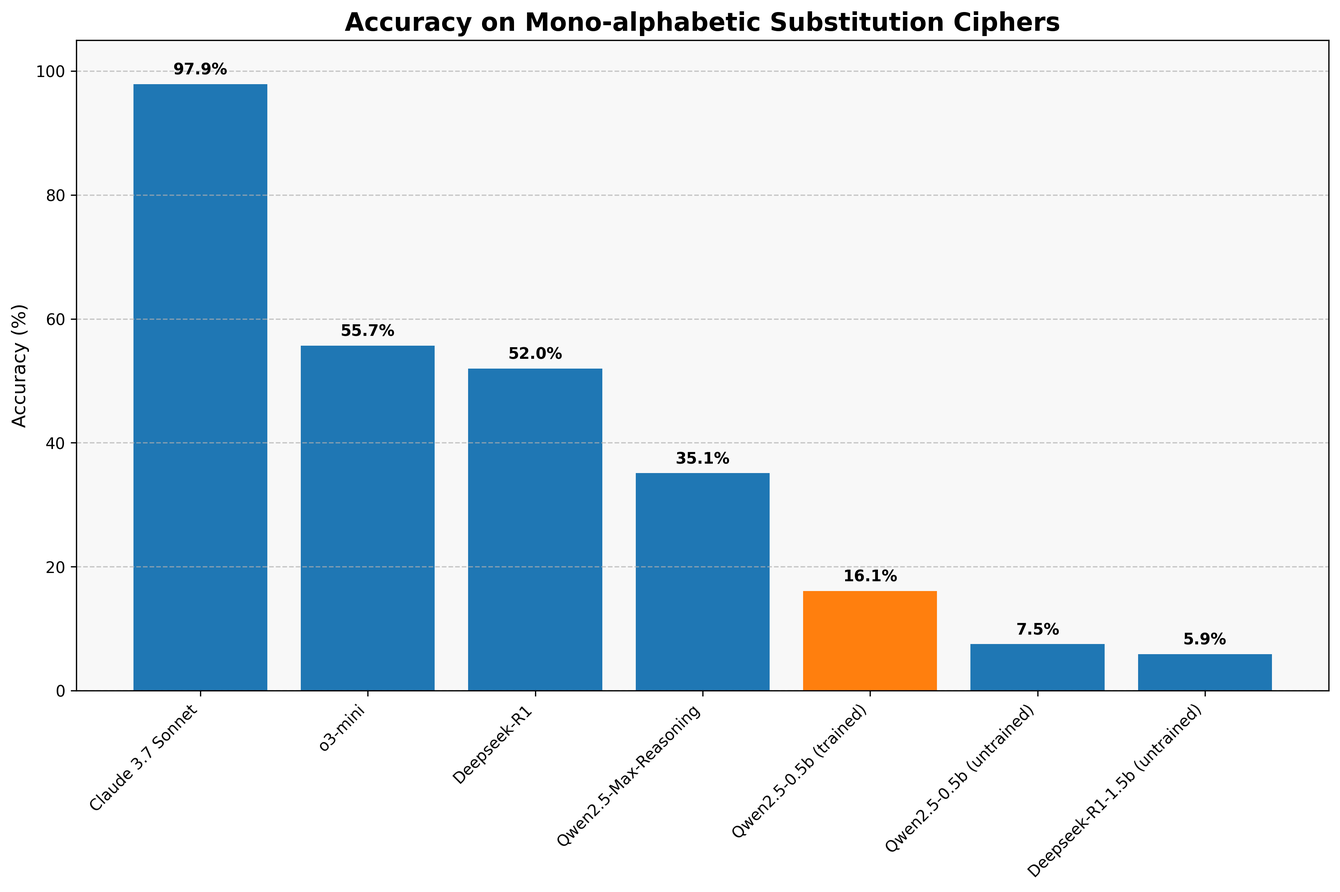
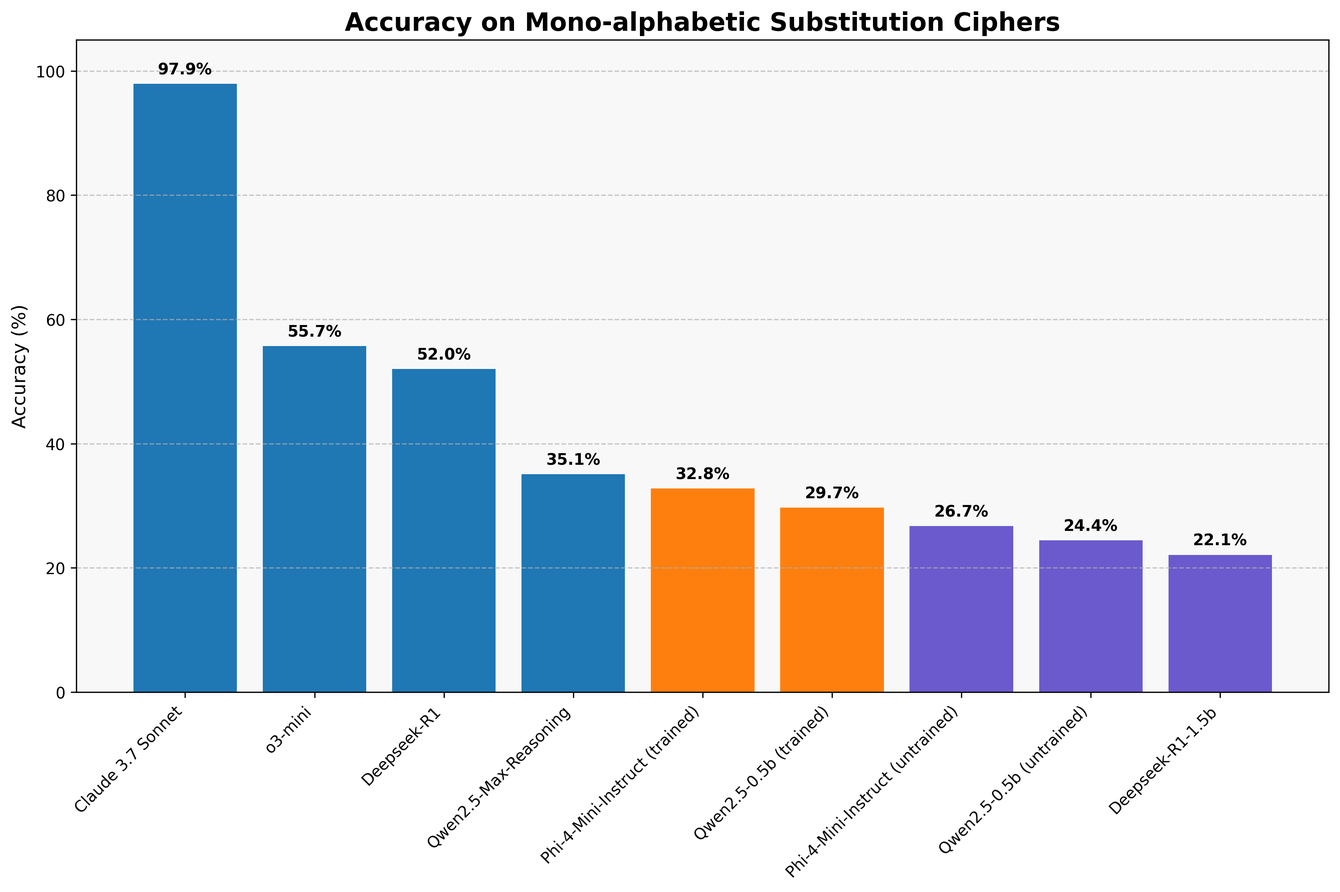
Updating Website

diff --git a/index.html b/index.html
@@ -102,7 +102,7 @@
           </span>      
           <span class="link-block">
             <a
-              href=""
+              href="https://drive.google.com/drive/u/0/folders/13usujfpPBEwUXV8RMr-UMQAgkwd0j87G"
               target="_blank"
               class="external-link button is-normal is-rounded is-dark is-outlined"
             >
@@ -131,20 +131,22 @@
 
 <p>
   Our project explores the feasibility of using fine-tuned small language models for cryptographic analysis, specifically mono-alphabetic substitution ciphers, to determine whether an LLM can effectively decode messages compared to algorithms or humans.
-   Large language models such as ChatGPT and Deepseek-R1 struggle immensely with this task, despite their extensive knowledge, computational power, and parameters.
-   To investigate this challenge, we fine-tune Qwen2.5-0.5B, a lightweight model with 500 million parameters, as well as DeepseekR1-1.5B with chain-of-thought reasoning and evaluate their performance against larger models. 
-   For both models, we implement a feedback system (GRPO) and apply test-time scaling to enhance performance and test with state-of-the-art LLM algorithms for optimal results. 
-   Our findings may demonstrate that carefully fine-tuned small models can effectively recognize symbolic patterns in cryptographic text, or alternatively, reveal an inherent limitation in AI systems' current ability to decode monoalphabetic cipher text despite meticulous fine-tuning.
+  Large language models such as ChatGPT and Deepseek-R1 struggle immensely with this task, despite their extensive knowledge, computational power, and parameters.
+  To investigate this challenge, we fine-tune Qwen2.5-0.5B, a lightweight model with 500 million parameters, as well as Phi-4-Mini and evaluate their performance against larger models. 
+  For both models, we implement a feedback system (GRPO) and apply test-time scaling to enhance performance and test with state-of-the-art LLM algorithms for optimal results. 
+  Our findings reveal an inherent limitation in AI systems' current ability to decode monoalphabetic cipher text due to LLM's difficulty with complex language tasks.
 </p>
 
 <hr>
 
 <h2 id="teaser">Figure</h2>
 
-<p class="sys-img"><img src="./files/figure.png" alt="imgname"></p>
-
-<p>The basic process of both GRPO and Test Time Scaling, heavily inspired by <a target="_blank" href="https://pub.towardsai.net/grpo-and-deepseek-r1-zero-9e81f15c6ba2">GRPO</a> and <a a target="_blank" href="https://huggingface.co/blog/Kseniase/testtimecompute">Test Time Compute</a></p>
-
+<div style="text-align: center;">
+  <p class="sys-img">
+    <img src="./files/teaser.png" alt="imgname">
+  </p>
+  <caption> Figure 1. The basic process of both GRPO and Test Time Scaling, heavily inspired by <a target="_blank" href="https://pub.towardsai.net/grpo-and-deepseek-r1-zero-9e81f15c6ba2">GRPO</a> and <a a target="_blank" href="https://huggingface.co/blog/Kseniase/testtimecompute">Test Time Compute</a></caption>
+</div>
 <hr>
 
 <h2 id="introduction">Introduction / Background / Motivation</h2>
@@ -156,7 +158,7 @@
   We sought to develop a small, efficient language model capable of breaking simple substitution ciphers where each letter is consistently replaced by another letter. 
   The problem we're addressing is understanding why current LLMs struggle with cryptographic challenges, and whether targeted training can improve their accuracy in this domain. 
   To achieve this goal, we will evaluate a compact base LLM using state-of-the-art algorithms to determine if it can comprehend and solve these puzzles. 
-  If this proves impossible, we intend to identify several explanations for this limitation and understand the fundamental constraints of LLMs in this area.
+  As this challenge proves to be rather difficult, we also identify several explanations for this limitation and understand the fundamental constraints of LLMs in this area.
 </p>
 
 <p>
@@ -164,18 +166,18 @@
 </p>
 <p>
   Current practices primarily rely on fixed statistical methods to identify word patterns and letter frequencies. 
-  These algorithms are relatively efficient to process and straightforward to implement, and humans can solve them through methodical trial and error. 
+  These algorithms are relatively efficient to process and straightforward to implement (try it <a href="https://www.dcode.fr/monoalphabetic-substitution">Here</a>), and humans can solve them through methodical trial and error. 
   Although this problem is solvable, our aim is to test an LLM's capacity to replicate this process and determine if it can be trained to understand and solve these puzzles similarly to humans. 
   Current LLMs (including ChatGPT, Qwen, and Deepseek-R1) perform poorly on this task, rarely or never solving the puzzles correctly. 
   However, Claude 3.7 Sonnet, a recent model, has demonstrated an exceptionally high accuracy rate, while Claude 3.5 Haiku fails at the same task. 
-  We hope to bridge the gap between these approaches and demonstrate that a small model can be trained to understand and solve these puzzles, or alternatively, explain why they cannot.
+  We bridge the gap between these approaches and demonstrate that a small model can be trained to improve their accuracy.
 <p>
 
 <p>
 <b>Who cares? If you are successful, what difference will it make?</b>
 </p>
 <p>
-  Success with this project would demonstrate that LLMs can generalize in ways similar or better than humans and tackle diverse problem types. 
+  Success with this project would demonstrate that LLMs can generalize in ways similar or better than humans and tackle a diverse set of problems. 
   It would also establish that smaller, specialized models can outperform larger, general-purpose models on specific tasks, and that targeted training can be more effective than computational brute force. 
   This could be applied to various challenges, from simple puzzles to complex problems requiring deep textual understanding. 
   Conversely, failure would illuminate the fundamental limitations of these models and highlight the significant gap between current LLMs and Artificial General Intelligence.
@@ -190,13 +192,14 @@
 </p>
 
 <p>
-  We fine-tuned a small language model using innovative techniques that enable adaptive learning during operation. 
+  We fine-tuned a small language model (Phi-4-Mini and Qwen2.5-0.5b) using innovative techniques that enable adaptive learning during operation. 
   Our methodology incorporates a feedback system (GRPO) and real-time output adjustment (test-time scaling). 
   This approach is novel as these training techniques have not previously been applied to cryptographic tasks, particularly given that current large-scale systems struggle with this challenge. 
-  We anticipate success because these methods have proven effective at enhancing LLM performance in other domains, and focusing on a smaller model allows for more efficient and targeted training. 
+  We anticipated success because these methods have proven effective at enhancing LLM performance in other domains, and focusing on a smaller model allows for more efficient and targeted training. 
   Each output has a clear corresponding plain text, which is ideal for training, and we believe the model can learn to recognize patterns in the text.
   To implement this, we utilize a diverse dataset containing varied text samples such as those from <a href="https://www.kaggle.com/datasets/shanegerami/ai-vs-human-text">AI vs Human Text Identification</a>.
   We then programmatically apply mono-alphabetic substitution ciphers to the text in Python and use these transformed texts as training data.
+  Our reward function for our first training on 2 letter substitution was defined as half length and half accuracy to push the model to return the proper length output, then subsequent trainings on the same model used a purely accuracy driven reward function.
 </p>
 
 <p>
@@ -211,6 +214,7 @@
   Early tests showed our small model frequently repeating cipher text verbatim or only partially solving sections, it also often produced long explanations without addressing the cipher itself.
   We eventually identified this as the model's inability to perform basic letter substitution, failing even at simple tasks like replacing 'a' with 'b' in a sentence. 
   This required us to refine our training approach to encourage complete text solution and to first train fundamental substitution skills before attempting full text decryption.
+  We did this by first replacing only 2 letters in a training paragraph, then 4, then 8, before finally training on to the full 26 letter final cipher substitution.
 </p>
 
 <hr>
@@ -220,15 +224,45 @@
 <b>How did you measure success? What experiments were used? What were the results, both quantitative and qualitative? Did you succeed? Did you fail? Why?</b>
 </p>
 <p>
-  We evaluate success using absolute accuracy scores, character correctness percentage for equal-length outputs, and <a href="https://rapidfuzz.github.io/RapidFuzz/">RapidFuzz</a> for variable-length comparisons.
-  All metrics range from 0-100%, with 100% representing perfect accuracy. 
-  Using these criteria, we've tested numerous mainstream large models to validate our hypothesis regarding their inability to solve this task. 
-  We've also evaluated our small model with and without our novel training methods, demonstrating that these approaches enhance model performance. 
-  Our current findings have provided significant insights into model behavior and the challenges LLMs face with this task, though we haven't yet created an algorithm that consistently deciphers text with high accuracy. 
-  This limitation stems primarily from small LLMs' difficulty with letter substitution and performing complex reasoning within constrained timeframes. 
-  For these evaluations, we used five <a target="_self" href="./prompts.html">prompts</a> with identical tasks but different texts and measured their accuracy.
+  We evaluted our project in three main avenues, one was the investigation of directed prompts and their performance, the second was evaluation of reasoning models and tokens generated versus accuracy, and finally a general evaluation of large, trained, and small LLMs on mono-alphabetic substitution ciphers.
+  To get an absolute accuracy score, we use character correctness percentage for equal-length outputs, and <a href="https://rapidfuzz.github.io/RapidFuzz/">RapidFuzz</a> for variable-length comparisons, which is a type of edit distance accuracy calculation.
+  All metrics range from 0-100%, with 100% representing perfect accuracy.
+  Our first round of tests investigated the performance of different types of <a target="_self" href="./prompts.html">prompts</a> on the same task, specifically directed and undirected versions of the same prompt.
+  In this context, directed prompts means that detailed step-by-step instructions were provided in the prompt, whereas undirected prompts simply asked the model to decipher the text.
+  Suprisingly, through testing many different LLM's on both types of prompts, we found that the models performed better when given a more undirected prompt.
+  We believe that this is because the extra directions tend to confuse the models and make them less likely to solve the task.
+  This could be due to the fact that the models are not able to understand the extra instructions, or it could be that they are trying to follow the instructions too closely and not focusing on the task at hand.
+  On all LLM's tested, only Qwen's accuracy improved with the more directed prompts, while all other models performed better with the less directed prompts.
+  This lead us to chosing a non-directed prompt for our final model.
 </p>
-<table>
+<br>
+<div style="text-align: center;">
+  <img alt="" src="./files/accuracy_comparison.png">
+  <caption>Figure 2. Results of 10 total directed versus non-directed prompts in major LLM's. Orange represent directed prompts, and blue represents un-directed prompts. All values are percentages out of 100. </caption>
+</div>
+<br>
+<p>
+  We also evaluated the models' reasoning capabilities by analyzing the number of tokens generated and their accuracy, which we believe is a good indicator of the model's ability to solve the task.
+  We hypothesized that models with more tokens would have higher accuracy, but our results showed that this was not the case.
+  In fact, the models with the highest accuracy generated fewer tokens, indicating that they were more focused on the task at hand.
+  This suggests that reasoning models may not be the best choice for this type of task, as they tend to generate more tokens and less accurate results, and tend to overthink.
+  When it cannot solve the task, it will often generate a lot of tokens in an attempt to explain its reasoning, reach a token max limit, and then return a random English sentence that is not related to the task at hand.
+  This evidence lead us to believe reasoning models aren't necessarily better for this task, and focusing on a non-reasoning model could help us both speed up training as well as create a more accurate final model.
+</p>
+<br>
+<div style="text-align: center;">
+  <img alt="" src="./files/token_vs_accuracy_graph.png">
+  <caption>Figure 3. Tokens generated versus final plaintext output accuracy. A token in this case is retreived using Deepseek's token calculation which can be found <a href="https://api-docs.deepseek.com/quick_start/token_usage">here</a>. 20 Prompts were tested on both Qwen2.5-Max-Reasoning as well as DeepseekR1.</caption>
+</div>
+<br>
+<p>
+  Using these criteria, we've tested numerous mainstream large models to validate our hypothesis regarding their inability to solve this task. 
+  We've also evaluated our small model with and without our novel training methods, demonstrating that these approaches enhance model performance by about 6% for both Qwen and Phi.
+  This rivals large models like Qwen2.5-Max, but cannot reach the heights of a model like Claude 3.7 Sonnet.
+  This limitation stems primarily from small LLMs' difficulty with letter substitution and performing complex reasoning within constrained timeframes. 
+  For these evaluations, we used ten directed and undirected <a target="_self" href="./prompts.html">prompts</a> with identical tasks but different texts and measured their accuracy.
+</p>
+<!-- <table>
   <thead>
     <tr>
       <th style="text-align: center"><strong>LLM Used</strong></th>
@@ -264,7 +298,7 @@
       <td style="text-align: center">47.4%</td>
       <td style="text-align: center">45.3%</td>
       <td style="text-align: center">40.3%</td>
-      <td style="text-align: center">34.0%</td>
+      <td style="text-align: center">33.7%</td>
       <td style="text-align: center">93.1%</td>
       <td style="text-align: center">52.0%</td>
     </tr>
@@ -306,26 +340,22 @@
     </tr>
   </tbody>
   <caption>Table 1. Results of Mono-alphabetic substitution on LLMs</caption>
-</table>
+</table> -->
 <br>
 <div style="text-align: center;">
-<img alt="" src="./files/cipher_accuracy_comparison.png">
+  <img alt="" src="./files/cipher_accuracy_comparison.png">
+  <caption>Figure 4. Final results of Mono-alphabetic substitution on LLMs. Light blue bars refer to LLM's tested on 20 directed prompts, while orange and purple bars are tested on 500 prompts from our original dataset. Orange defines our final trained models.</caption>
 </div>
-<br><br>
-
 <hr>
-
-
-
 <h2 id="conclusion">Conclusion and Future Work</h2>
 <p>
-  Our research demonstrates that GRPO can train small models to improve accuracy scores, though we haven't achieved consistent cipher-solving capability.
-  This limitation stems primarily from the model's difficulty with letter substitution, as well as difficulty having the model return only the plaintext with no added information.
+  Our research demonstrates that GRPO can train small models to improve accuracy scores, though the problem currently proves to be too difficult to achieve consistent cipher-solving capability.
+  This limitation stems primarily from the model's difficulty with large letter substitution questions, complex iterative problems, as well as difficulty having models return only the plaintext with no added information.
   We've also shown that current state-of-the-art models generally fail at these problems, revealing fundamental LLM limitations in this domain, evident across their respective platforms. 
   Claude Sonnet 3.7 stands as the exception, providing valuable insights into potential LLM capabilities for such tasks. 
   We speculate the larger models performance improvments come from the parameter count increases, which can enhance linguistic pattern recognition, even if they don't understand the problem at hand.
-  Our current model faces several constraints we're addressing: it frequently reaches character limits while explaining its reasoning, diverting focus from the cipher itself, and when attempting decryption, often substitutes letters incorrectly or generates random English text to maximize apparent accuracy. 
-  Future work includes refining the reward function to encourage shorter responses containing only decrypted text, optimizing prompts for better task focus, investigating Claude Sonnet 3.7's successful approach, and evaluating additional LLMs.
+  Our current model faces one major constraint when attempting decryption, the model often tends to substitute letters incorrectly or generates random English text to maximize apparent accuracy. 
+  Future work testing with larger models, different training methods, and larger datasets is needed to potentially create a model that can match Claude Sonnet 3.7's success on this task.
   Overall, we've identified an intriguing challenge that confounds current leading systems, suggesting the need for further research into LLM applications in cryptography.
 </p>
 

diff --git a/prompts.html b/prompts.html
@@ -40,6 +40,8 @@
     </br>
         <div class="wrapper">
             <hr>
+            <h1>Undirected Prompts</h1>
+            <hr>
             <h2 id="abstract">Prompt 1</h2>
             <p>
                 You are an expert cryptanalyst specialized in solving monoalphabetic substitution ciphers. Your task is to think very deeply to decode encrypted messages and provide the English plaintext solution.
@@ -53,7 +55,7 @@
                 What is the unencrypted English text:
             </p>
             <hr>
-            <h2 id="abstract">Prompt 2 (Same Plaintext Message, Different Cipher)</h2>
+            <h2 id="abstract">Prompt 2 (Same Plaintext Message as Prompt 1, Different Cipher)</h2>
             <p>
                 You are an expert cryptanalyst specialized in solving monoalphabetic substitution ciphers. Your task is to think very deeply to decode encrypted messages and provide the English plaintext solution.
                 Remember that in a monoalphabetic cipher, each letter in the original text is replaced by a different letter consistently throughout the message. For example, if 'A' is encrypted as 'X', then every 'A' in the plaintext will appear as 'X' in the ciphertext. Do not return any of the original cipher.
@@ -102,6 +104,144 @@
             <p>
                 RQ AMJQY BT JADQ A SJAHH, QKKMWMQNB HANOCAOQ JTYQH BGAB WAN XPQAD SMJFHQ WTYQY JQSSAOQS RGQPQ QAWG HQBBQP MS PQFHAWQY XL ANTBGQP HQBBQP. BGQ FPTXHQJ RQ APQ BPLMNO BT STHZQ MS BT CNYQPSBANY WCPPQNB HHJ'S YMKKMWCHBMQS RMBG WPLFBTOPAFGMW FPTXHQJS MN OQNQPAH, ANY BT SQQ MK WAPQKCH BPAMNMNO WAN MJFPTZQ BGQ AWWCPAWL TK BGQSQ JTYQHS. BT STHZQ BGMS OTAH, RQ RMHH BQSB A WTJFAWB XASQ HHJ JTYQH RMBG SBABQ-TK-BGQ-APB AHOTPMBGJS ANY KMOCPQ TCB MK MB WAN CNYQPSBANY ANY STHZQ BGQSQ FCVVHQS. MK MB MS NTB FTSSMXHQ, RQ FHAN BT SGTR SQZQPAH PQASTNS RGL BGMS MS BGQ WASQ, ANY CNYQPSBANY BGQ KCNYQJQNBAH HMJMBABMTNS TK HHJ'S MN BGMS APQA.
             </p>
+            <p>
+                What is the unencrypted English text:
+            </p>
+            <hr>
+            <h1>Directed Prompts</h1>
+            <hr>
+            <h2 id="abstract">Prompt 6</h2>
+            <p>
+                You are an expert cryptanalyst specialized in solving monoalphabetic substitution ciphers. Your task is to think very deeply to decode encrypted messages and provide the English plaintext solution.
+            </p>
+            <p>
+                When given an encrypted message, follow these steps: <br/>
+                1. Analyze letter frequencies in the ciphertext (Start with trying to find the letter A, E or I) <br/>
+                2. Identify common patterns and letter combinations <br/>
+                3. Map cipher letters to plaintext letters <br/>
+                4. Refine your mapping until the message is coherent <br/>
+                5. Return only the decrypted text with no additional commentary
+            </p>
+            <p>
+                Remember that in a monoalphabetic cipher, each letter in the original text is replaced by a different letter consistently throughout the message. For example, if 'A' is encrypted as 'X', then every 'A' in the plaintext will appear as 'X' in the ciphertext. There are no other ciphers being used, only this mono-alphabetic substitution cipher.
+            </p>
+            <p>
+                Provide only the decrypted English plaintext as your response without any explanations or additional text. Do not return any of the original cipher. Make sure your final output is in coherent English.
+            </p>
+            <p>       
+                Here is a message encrypted using a monoalphabetic substitution cipher. Every english character is mapped to a different english character, but all punctuation remains the same:
+            </p>
+            <p>
+                D HOQF TCEN DFO, CQ D FDHDJB ADK, ADK DXDB... CT CU D YDKZ TCEN AOK TIN KNSNHHCOQ. DHTIOWFI TIN YNDTI UTDK IDU SNNQ YNUTKOBNY, CERNKCDH TKOORU IDGN YKCGNQ TIN KNSNH AOKMNU AKOE TINCK ICYYNQ SDUN DQY RWKUWNY TINE DMKOUU TIN FDHDJB. NGDYCQF TIN YKNDYNY CERNKCDH UTDKAHNNT, D FKOWR OA AKNNYOE ACFITNKU HNY SB HWZN UZBXDHZNK IDU NUTDSHCUINY D QNX UNMKNT SDUN OQ TIN KNEOTN CMN XOKHY OA IOTI. TIN NGCH HOKY YDKTI GDYNK, OSUNUUNY XCTI ACQYCQF BOWQF UZBXDHZNK, IDU YCURDTMINY TIOWUDQYU OA KNEOTN RKOSNU CQTO TIN ADK KNDMINU OA URDMN…
+            </p>
+            <p>
+                What is the unencrypted English text:
+            </p>
+            <hr>
+            <h2 id="abstract">Prompt 7 (Same Plaintext Message as Prompt 6, Different Cipher)</h2>
+            <p>
+                You are an expert cryptanalyst specialized in solving monoalphabetic substitution ciphers. Your task is to think very deeply to decode encrypted messages and provide the English plaintext solution.
+            </p>
+            <p>
+                When given an encrypted message, follow these steps: <br/>
+                1. Analyze letter frequencies in the ciphertext (Start with trying to find the letter A, E or I) <br/>
+                2. Identify common patterns and letter combinations <br/>
+                3. Map cipher letters to plaintext letters <br/>
+                4. Refine your mapping until the message is coherent <br/>
+                5. Return only the decrypted text with no additional commentary
+            </p>
+            <p>
+                Remember that in a monoalphabetic cipher, each letter in the original text is replaced by a different letter consistently throughout the message. For example, if 'A' is encrypted as 'X', then every 'A' in the plaintext will appear as 'X' in the ciphertext. There are no other ciphers being used, only this mono-alphabetic substitution cipher.
+            </p>
+            <p>
+                Provide only the decrypted English plaintext as your response without any explanations or additional text. Do not return any of the original cipher. Make sure your final output is in coherent English.
+            </p>
+            <p>       
+                Here is a message encrypted using a monoalphabetic substitution cipher. Every english character is mapped to a different english character, but all punctuation remains the same:
+            </p>
+            <p>
+                J YQHV SXAR JVQ, XH J VJYJEL FJW, FJW JGJL... XS XB J DJWC SXAR FQW SIR WRURYYXQH. JYSIQZVI SIR DRJSI BSJW IJB URRH DRBSWQLRD, XAORWXJY SWQQOB IJKR DWXKRH SIR WRURY FQWMRB FWQA SIRXW IXDDRH UJBR JHD OZWBZRD SIRA JMWQBB SIR VJYJEL. RKJDXHV SIR DWRJDRD XAORWXJY BSJWFYRRS, J VWQZO QF FWRRDQA FXVISRWB YRD UL YZCR BCLGJYCRW IJB RBSJUYXBIRD J HRG BRMWRS UJBR QH SIR WRAQSR XMR GQWYD QF IQSI. SIR RKXY YQWD DJWSI KJDRW, QUBRBBRD GXSI FXHDXHV LQZHV BCLGJYCRW, IJB DXBOJSMIRD SIQZBJHDB QF WRAQSR OWQURB XHSQ SIR FJW WRJMIRB QF BOJMR…             </p>
+            <p>
+                What is the unencrypted English text:
+            </p>
+            <hr>
+            <h2 id="abstract">Prompt 8</h2>
+            <p>
+                You are an expert cryptanalyst specialized in solving monoalphabetic substitution ciphers. Your task is to think very deeply to decode encrypted messages and provide the English plaintext solution.
+            </p>
+            <p>
+                When given an encrypted message, follow these steps: <br/>
+                1. Analyze letter frequencies in the ciphertext (Start with trying to find the letter A, E or I) <br/>
+                2. Identify common patterns and letter combinations <br/>
+                3. Map cipher letters to plaintext letters <br/>
+                4. Refine your mapping until the message is coherent <br/>
+                5. Return only the decrypted text with no additional commentary
+            </p>
+            <p>
+                Remember that in a monoalphabetic cipher, each letter in the original text is replaced by a different letter consistently throughout the message. For example, if 'A' is encrypted as 'X', then every 'A' in the plaintext will appear as 'X' in the ciphertext. There are no other ciphers being used, only this mono-alphabetic substitution cipher.
+            </p>
+            <p>
+                Provide only the decrypted English plaintext as your response without any explanations or additional text. Do not return any of the original cipher. Make sure your final output is in coherent English.
+            </p>
+            <p>       
+                Here is a message encrypted using a monoalphabetic substitution cipher. Every english character is mapped to a different english character, but all punctuation remains the same:
+            </p>
+            <p>
+                Z HGAB BMXB PMXB Z MXN CGGE KBXENZET OE MXN QOAAXYKGN XEN BMXB Z MXN EOBMZET AGHB VENGR UI HGGB. PMXB Z MXN AZDGN OE EO AOETGR GJZKBGN, XEN BMGRG PXK EOBMZET AGHB. UI AZHG QXUG BO X KBXENKBZAA. Z QOVAN CRGXBMG, GXB, NRZES, XEN KAGGY, XEN Z QOVAN EOB MGAY NOZET BMGKG BMZETK; CVB BMGRG PXK EO AZHG, HOR BMGRG PGRG EO PZKMGK BMG HVAHZAAUGEB OH PMZQM Z QOVAN QOEKZNGR RGXKOEXCAG. ZH Z NGKZRGN XEIBMZET, Z SEGP ZE XNDXEQG BMXB PMGBMGR Z KXBZKHZGN UI NGKZRG OR EOB, EOBMZET POVAN QOUG OH ZB. MXN X HXZRI QOUG XEN OHHGRGN BO HVAHZA UI NGKZRGK Z KMOVAN EOB MXDG SEOP PMXB BO XKS. ZH ZE UOUGEBK OH ZEBOJZQXBZOE Z HGAB KOUGBMZET PMZQM, BMOVTM EOB X PZKM, PXK X MXCZB AGHB CI HORUGR PZKMGK, ZE KOCGR UOUGEBK Z SEGP BMZK BO CG X NGAVKZOE XEN BMXB BMGRG PXK RGXAAI EOBMZET BO PZKM HOR. Z QOVAN EOB GDGE PZKM BO SEOP BMG BRVBM, HOR Z TVGKKGN OH PMXB ZB QOEKZKBGN. BMG BRVBM PXK BMXB AZHG ZK UGXEZETAGKK. Z MXN XK ZB PGRG AZDGN, AZDGN, XEN PXASGN, PXASGN, BZAA Z MXN QOUG BO X YRGQZYZQG XEN KXP QAGXRAI BMXB BMGRG PXK EOBMZET XMGXN OH UG CVB NGKBRVQBZOE. ZB PXK ZUYOKKZCAG BO KBOY, ZUYOKKZCAG BO TO CXQS, XEN ZUYOKKZCAG BO QAOKG UI GIGK OR XDOZN KGGZET BMXB BMGRG PXK EOBMZET XMGXN CVB KVHHGRZET XEN RGXA NGXBM--QOUYAGBG XEEZMZAXBZOE.             </p>
+            <p>
+                What is the unencrypted English text:
+            </p>
+            <hr>
+            <h2 id="abstract">Prompt 9</h2>
+            <p>
+                You are an expert cryptanalyst specialized in solving monoalphabetic substitution ciphers. Your task is to think very deeply to decode encrypted messages and provide the English plaintext solution.
+            </p>
+            <p>
+                When given an encrypted message, follow these steps: <br/>
+                1. Analyze letter frequencies in the ciphertext (Start with trying to find the letter A, E or I) <br/>
+                2. Identify common patterns and letter combinations <br/>
+                3. Map cipher letters to plaintext letters <br/>
+                4. Refine your mapping until the message is coherent <br/>
+                5. Return only the decrypted text with no additional commentary
+            </p>
+            <p>
+                Remember that in a monoalphabetic cipher, each letter in the original text is replaced by a different letter consistently throughout the message. For example, if 'A' is encrypted as 'X', then every 'A' in the plaintext will appear as 'X' in the ciphertext. There are no other ciphers being used, only this mono-alphabetic substitution cipher.
+            </p>
+            <p>
+                Provide only the decrypted English plaintext as your response without any explanations or additional text. Do not return any of the original cipher. Make sure your final output is in coherent English.
+            </p>
+            <p>       
+                Here is a message encrypted using a monoalphabetic substitution cipher. Every english character is mapped to a different english character, but all punctuation remains the same:
+            </p>
+            <p>
+                L GN DAQCLQDEX IOGI OJNGQ ZLTE LF TLZZEX HLIO NGQY RJWE, OGRRY, FEWEQE EUGNRZEF AT LQFLQDEWLIY, IWJZY FRZEQXLX AT IOELW MLQX-AT REARZE XEDELCLQP AQE GQAIOEW HLIOAJI (FIWGQPEZY EQAJPO) GQY HAJQXF KELQP LQTZLDIEX, AT REARZE HOA FEEN JQGHGWE ECEQ IOGI IOEY GWE XEDELCLQP AQE GQAIOEW.             </p>
+            <p>
+                What is the unencrypted English text:
+            </p>
+            <hr>
+            <h2 id="abstract">Prompt 10</h2>
+            <p>
+                You are an expert cryptanalyst specialized in solving monoalphabetic substitution ciphers. Your task is to think very deeply to decode encrypted messages and provide the English plaintext solution.
+            </p>
+            <p>
+                When given an encrypted message, follow these steps: <br/>
+                1. Analyze letter frequencies in the ciphertext (Start with trying to find the letter A, E or I) <br/>
+                2. Identify common patterns and letter combinations <br/>
+                3. Map cipher letters to plaintext letters <br/>
+                4. Refine your mapping until the message is coherent <br/>
+                5. Return only the decrypted text with no additional commentary
+            </p>
+            <p>
+                Remember that in a monoalphabetic cipher, each letter in the original text is replaced by a different letter consistently throughout the message. For example, if 'A' is encrypted as 'X', then every 'A' in the plaintext will appear as 'X' in the ciphertext. There are no other ciphers being used, only this mono-alphabetic substitution cipher.
+            </p>
+            <p>
+                Provide only the decrypted English plaintext as your response without any explanations or additional text. Do not return any of the original cipher. Make sure your final output is in coherent English.
+            </p>
+            <p>       
+                Here is a message encrypted using a monoalphabetic substitution cipher. Every english character is mapped to a different english character, but all punctuation remains the same:
+            </p>
+            <p>
+                RQ AMJQY BT JADQ A SJAHH, QKKMWMQNB HANOCAOQ JTYQH BGAB WAN XPQAD SMJFHQ WTYQY JQSSAOQS RGQPQ QAWG HQBBQP MS PQFHAWQY XL ANTBGQP HQBBQP. BGQ FPTXHQJ RQ APQ BPLMNO BT STHZQ MS BT CNYQPSBANY WCPPQNB HHJ'S YMKKMWCHBMQS RMBG WPLFBTOPAFGMW FPTXHQJS MN OQNQPAH, ANY BT SQQ MK WAPQKCH BPAMNMNO WAN MJFPTZQ BGQ AWWCPAWL TK BGQSQ JTYQHS. BT STHZQ BGMS OTAH, RQ RMHH BQSB A WTJFAWB XASQ HHJ JTYQH RMBG SBABQ-TK-BGQ-APB AHOTPMBGJS ANY KMOCPQ TCB MK MB WAN CNYQPSBANY ANY STHZQ BGQSQ FCVVHQS. MK MB MS NTB FTSSMXHQ, RQ FHAN BT SGTR SQZQPAH PQASTNS RGL BGMS MS BGQ WASQ, ANY CNYQPSBANY BGQ KCNYQJQNBAH HMJMBABMTNS TK HHJ'S MN BGMS APQA.             </p>
             <p>
                 What is the unencrypted English text:
             </p>

diff --git a/files/styles.css b/files/styles.css
@@ -322,7 +322,7 @@ iframe { position: absolute; width: 100%; height: 100%; left: 0; top: 0; }
 
 pre { display: block; font-size: 14px; color: #333; word-break: break-all; word-wrap: break-word; background-color: #f5f5f5; border: 1px solid #ccc; border-radius: 4px; }
 
-.sys-img { width: 90%; margin-left: 5%; }
+.sys-img { width: 95%; margin-left: 5%; }
 
 .sys-img-small { width: 70%; margin-left: 15%; }
 
